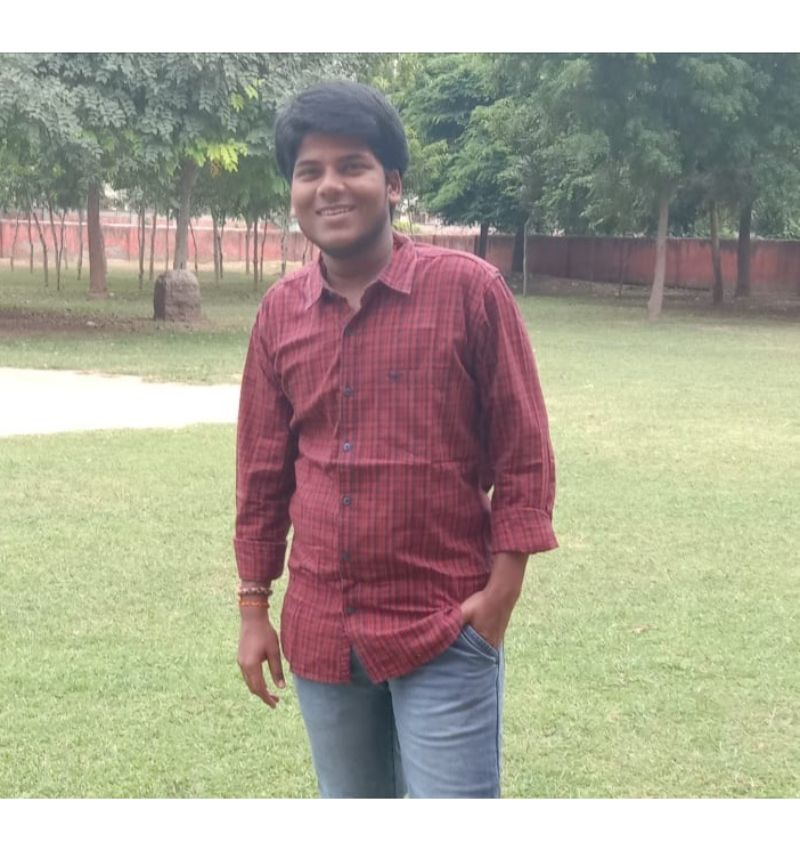
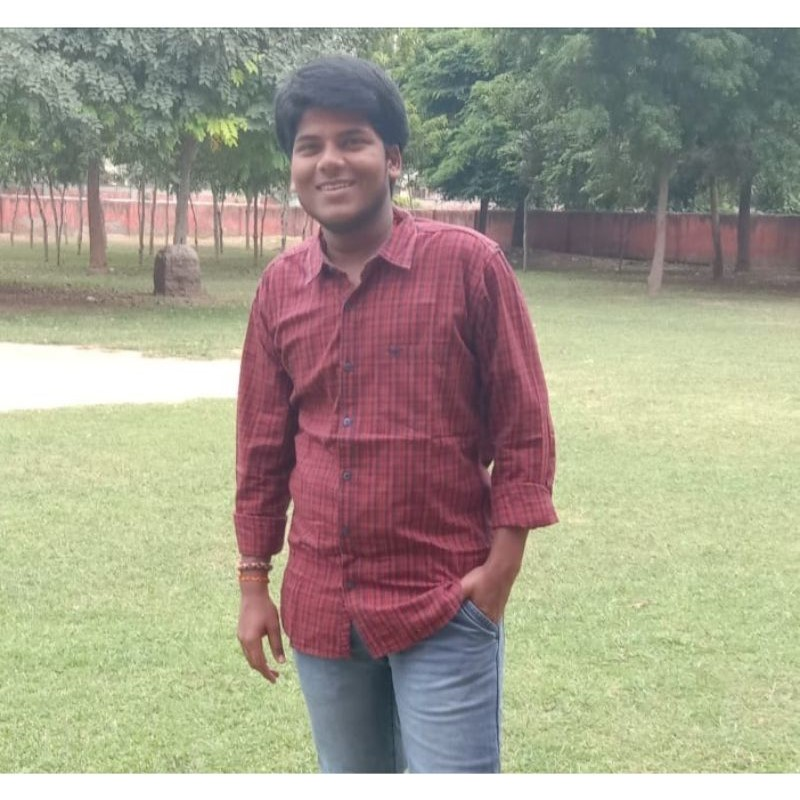
Changes to be committed: 	modified:   Hyperaero/Abhronil.jpg 	modified:   Hyperaero/Praneet.jpg 	modified:   Hyperaero/Ritwik.jpg 	deleted:    Hyperaero/Ritwik_III.jpg 	modified:   Hyperaero/Satyam.jpg 	new file:   Hyperaero/Sharique.jpg 	modified:   Hyperaero/Shivani.jpg 	modified:   hyperaero.html

diff --git a/hyperaero.html b/hyperaero.html
@@ -96,7 +96,7 @@
 		      <div class="col s12 m6 l4">
 		        <div class="card">
 		          <div class="card-image">
-		            <img src="Hyperaero/default.jpg">
+		            <img src="Hyperaero/Sharique.jpg">
 		            <span class="card-title">Sharique Alam</span>
 		          </div>
 		          <div class="card-content">
@@ -179,7 +179,7 @@
 		</div> -->
   
 		<div class="col s12 m6" style="text-align: center"> 
-		  <h5 class="white-text ">Connect</h5>
+		  <h5 class="white-text "><u>Connect</u></h5>
 		  <ul>
 			<li>
 			<a class="grey-text text-lighten-3" href="mailto:aeronitkkr.club@gmail.com">
@@ -202,7 +202,7 @@
 		</div>
   
 		<div class="col s12 m6" style="text-align: center">
-		  <h5 class="white-text">Post Holders</h5>
+		  <h5 class="white-text"><u>Post Holders</u></h5>
 		  <ul>
 			<li><a class="grey-text text-lighten-3 president" >Sharique @ President</a></li>
 			<li><a class="grey-text text-lighten-3 vice-president" >Anubhav Saini @ Vice-President</a></li>
